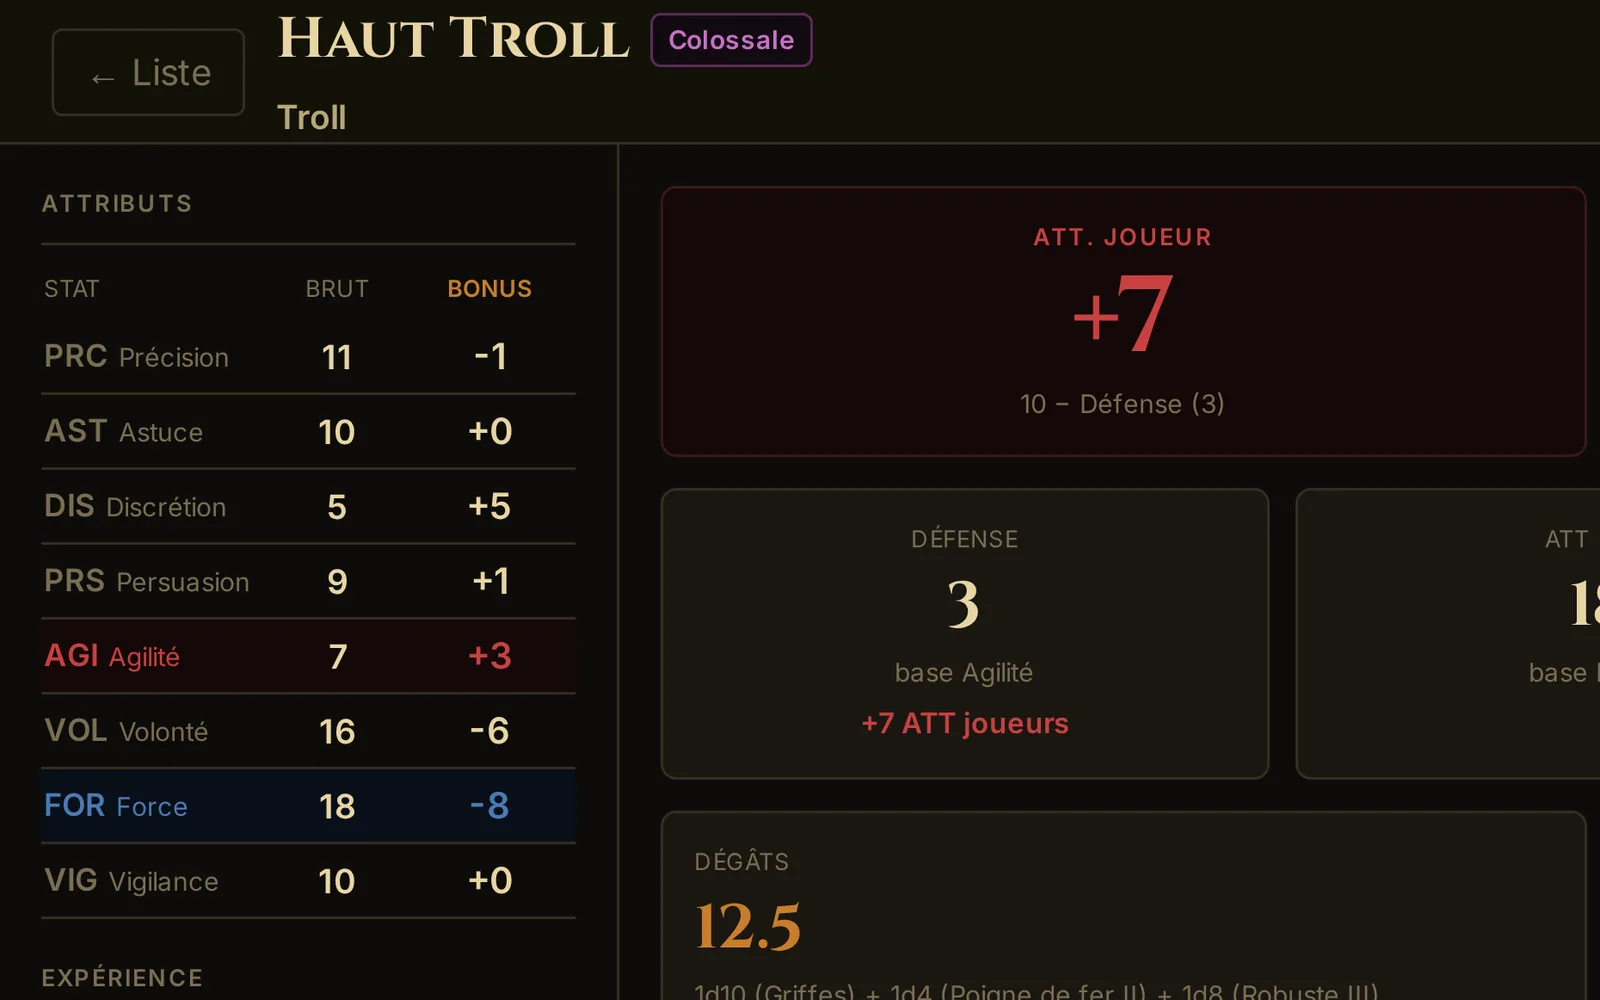
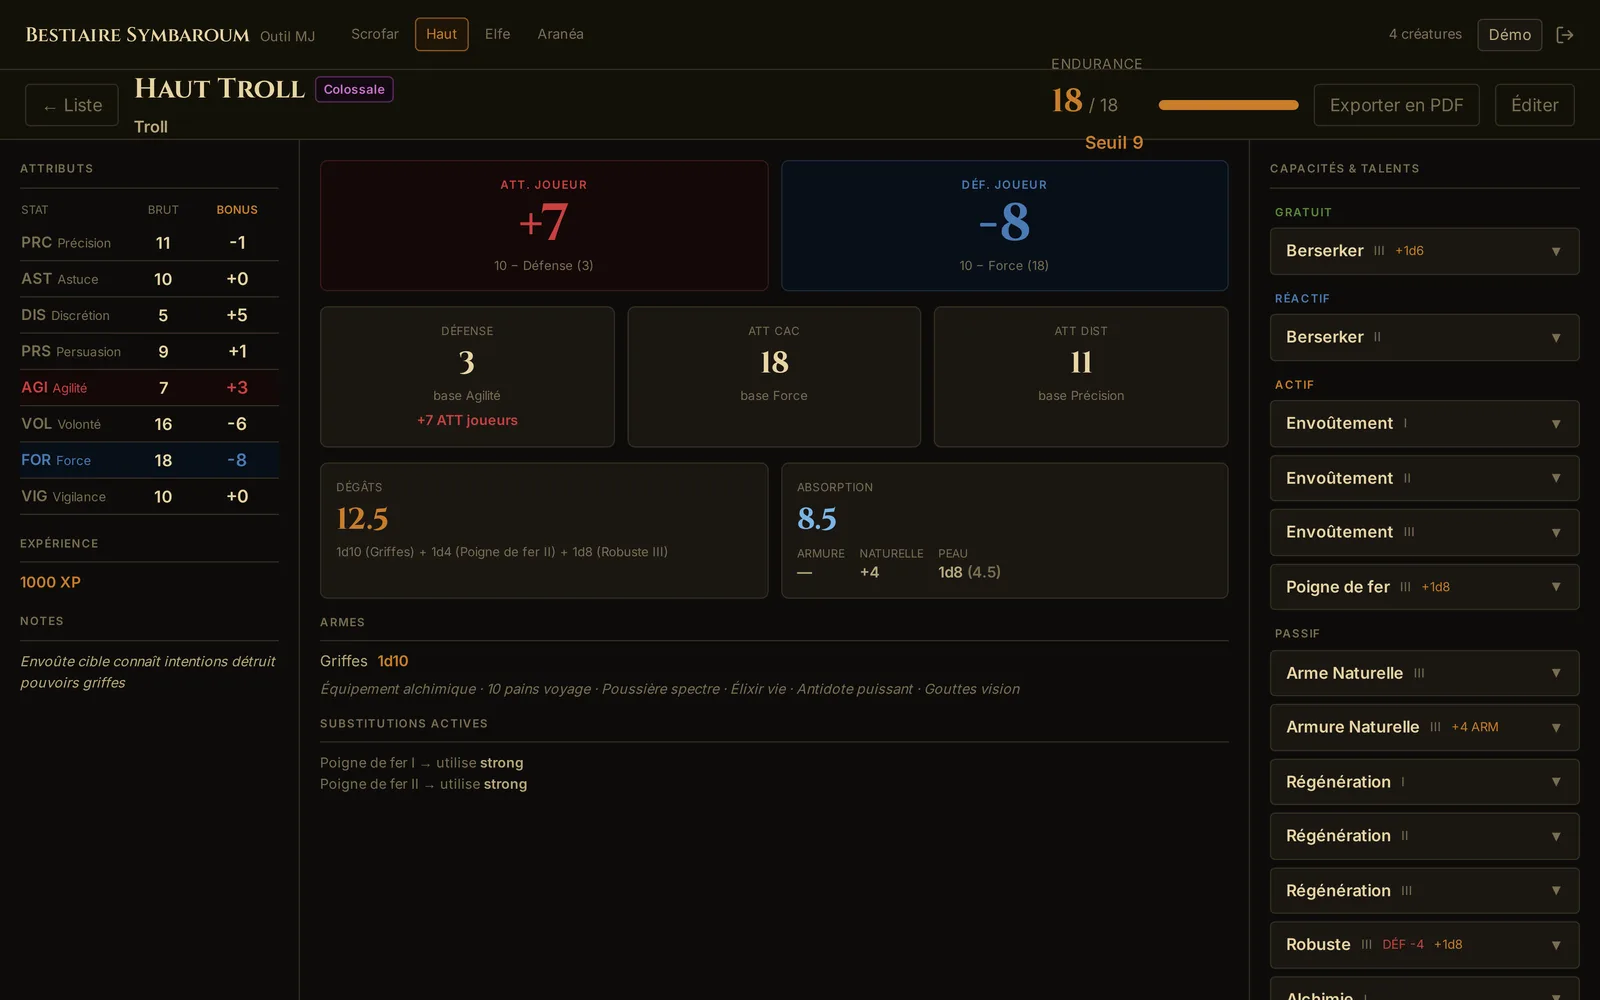
Grande vue des galeries : grande fiche cartonnée, écrans entiers Symbaroum
- La grande vue devient une grande fiche cartonnée (onglet au nom du projet,
  ombre dure) qui épouse la capture, sur la page voilée de crème ; fond
  crème plein sur téléphone. Commandes au centre en bas, « Fermer » à droite.
- Un clic hors de la fiche et des commandes ferme (la fenêtre couvre
  désormais tout l'écran).
- Symbaroum : grande vue en écran entier ; trois écrans distincts (liste,
  fiche du Haut Troll, formulaire de modification), vignettes en gros plan.

diff --git a/app/components/ProjectGallery.vue b/app/components/ProjectGallery.vue
@@ -73,35 +73,41 @@ const sizes = '(max-width: 640px) calc(100vw - 108px), (max-width: 960px) calc(5
       </p>
     </div>
 
-    <!-- Grande vue : dans la couche supérieure une fois ouverte, elle échappe
-         à la rotation et au rognage de la fiche. -->
+    <!-- Grande vue : la capture posée dans une grande fiche cartonnée, onglet
+         au nom du projet, sur la page voilée. Dans la couche supérieure une
+         fois ouverte, elle échappe à la rotation et au rognage de la fiche. -->
     <dialog class="lightbox" :aria-label="title">
       <div class="lightbox__inner">
         <div class="lightbox__track" data-strip-track>
-          <figure v-for="image in images" :key="image.full.src" class="lightbox__slide">
-            <img
-              class="lightbox__image"
-              :src="image.full.src"
-              :width="image.full.width"
-              :height="image.full.height"
-              :alt="image.alt"
-              loading="lazy"
-              decoding="async"
-            >
-            <figcaption class="lightbox__caption">{{ image.caption }}</figcaption>
-          </figure>
+          <div v-for="image in images" :key="image.full.src" class="lightbox__slide">
+            <figure class="lightbox__frame">
+              <p class="lightbox__tab" aria-hidden="true">{{ title }}</p>
+              <img
+                class="lightbox__image"
+                :src="image.full.src"
+                :width="image.full.width"
+                :height="image.full.height"
+                :alt="image.alt"
+                loading="lazy"
+                decoding="async"
+              >
+              <figcaption class="lightbox__caption">{{ image.caption }}</figcaption>
+            </figure>
+          </div>
         </div>
 
-        <div class="lightbox__bar">
-          <button type="button" class="gallery__arrow" data-strip-prev :aria-label="labels.previous" hidden>
-            <svg viewBox="0 0 16 16" width="14" height="14" aria-hidden="true"><path d="M10.5 2 4.5 8l6 6" fill="none" stroke="currentColor" stroke-width="2" /></svg>
-          </button>
-          <p class="gallery__count" data-strip-count aria-live="polite" hidden>
-            <span data-strip-current>1</span> / {{ images.length }}
-          </p>
-          <button type="button" class="gallery__arrow" data-strip-next :aria-label="labels.next" hidden>
-            <svg viewBox="0 0 16 16" width="14" height="14" aria-hidden="true"><path d="M5.5 2l6 6-6 6" fill="none" stroke="currentColor" stroke-width="2" /></svg>
-          </button>
+        <div class="lightbox__controls">
+          <div class="lightbox__nav">
+            <button type="button" class="gallery__arrow" data-strip-prev :aria-label="labels.previous" hidden>
+              <svg viewBox="0 0 16 16" width="14" height="14" aria-hidden="true"><path d="M10.5 2 4.5 8l6 6" fill="none" stroke="currentColor" stroke-width="2" /></svg>
+            </button>
+            <p class="gallery__count" data-strip-count aria-live="polite" hidden>
+              <span data-strip-current>1</span> / {{ images.length }}
+            </p>
+            <button type="button" class="gallery__arrow" data-strip-next :aria-label="labels.next" hidden>
+              <svg viewBox="0 0 16 16" width="14" height="14" aria-hidden="true"><path d="M5.5 2l6 6-6 6" fill="none" stroke="currentColor" stroke-width="2" /></svg>
+            </button>
+          </div>
           <button type="button" class="btn btn--sm btn--outline-ink lightbox__close" data-gallery-close>
             {{ labels.close }}
           </button>
@@ -214,33 +220,37 @@ const sizes = '(max-width: 640px) calc(100vw - 108px), (max-width: 960px) calc(5
 
 /* ---------- Grande vue ---------- */
 
+/* Plein écran et transparente : seule la fiche est dessinée, elle épouse
+   la capture, sans vide autour. */
 .lightbox {
-  width: min(1080px, 100vw - 32px);
+  width: 100vw;
+  height: 100dvh;
   max-width: none;
-  max-height: calc(100dvh - 32px);
+  max-height: none;
+  margin: 0;
   padding: 0;
-  border: var(--border);
-  background: var(--cream-card);
+  border: 0;
+  background: transparent;
   color: var(--ink);
   overflow: hidden;
 }
 
+/* La page reste devinable sous un voile crème (--cream à 85 %). */
 .lightbox::backdrop {
-  background: rgb(46 42 38 / .85);
+  background: rgb(243 234 211 / .85);
 }
 
 .lightbox__inner {
-  display: flex;
-  flex-direction: column;
+  display: grid;
+  grid-template-rows: minmax(0, 1fr) auto;
   gap: 14px;
-  max-height: calc(100dvh - 32px);
-  padding: 18px;
+  height: 100%;
+  padding: 20px 24px;
   box-sizing: border-box;
 }
 
 .lightbox__track {
   display: flex;
-  flex: 1;
   min-height: 0;
   overflow-x: auto;
   overscroll-behavior-x: contain;
@@ -255,61 +265,104 @@ const sizes = '(max-width: 640px) calc(100vw - 108px), (max-width: 960px) calc(5
 .lightbox__slide {
   display: flex;
   flex: 0 0 100%;
-  flex-direction: column;
   align-items: center;
-  gap: 10px;
+  justify-content: center;
   min-width: 0;
-  margin: 0;
   scroll-snap-align: start;
 }
 
-/* La place restante sous la barre, la légende et les marges : l'écran en
-   hauteur de MémoPatte tient entier, la capture en largeur aussi. */
+/* La grande fiche : même carton, même ombre que les fiches de l'accueil.
+   La marge haute laisse la place à l'onglet. */
+.lightbox__frame {
+  position: relative;
+  display: flex;
+  flex-direction: column;
+  gap: 12px;
+  margin: 30px 0 0;
+  padding: 20px 20px 18px;
+  border: var(--border);
+  background: var(--cream-card);
+  box-shadow: var(--shadow-card);
+}
+
+.lightbox__tab {
+  position: absolute;
+  top: -30px;
+  left: -1.5px;
+  display: flex;
+  align-items: center;
+  height: 30px;
+  padding: 0 16px;
+  box-sizing: border-box;
+  border: var(--border);
+  border-bottom: none;
+  background: var(--teal);
+  color: var(--cream);
+  font-family: var(--font-mono);
+  font-size: var(--fs-mono-sm);
+  font-weight: var(--fw-mono);
+  letter-spacing: var(--track-mono);
+  text-transform: uppercase;
+  white-space: nowrap;
+}
+
+/* Ce qui reste une fois ôtés les marges, l'onglet, le cadre, la légende et
+   les commandes : la capture en largeur comme l'écran en hauteur tiennent. */
 .lightbox__image {
+  display: block;
   width: auto;
   height: auto;
-  max-width: 100%;
-  max-height: calc(100dvh - 190px);
+  max-width: calc(100vw - 96px);
+  max-height: calc(100dvh - 260px);
   border: var(--border);
 }
 
+/* Largeur nulle, largeur minimale 100 % : la légende suit la capture sans
+   jamais élargir la fiche. */
 .lightbox__caption {
-  max-width: var(--measure);
+  width: 0;
+  min-width: 100%;
   font-size: var(--fs-body);
   line-height: var(--lh-body);
-  text-align: center;
   text-wrap: pretty;
 }
 
-.lightbox__bar {
+/* Flèches et compteur au centre, « Fermer » à droite, sur la même ligne. */
+.lightbox__controls {
+  display: grid;
+  grid-template-columns: 1fr auto 1fr;
+  align-items: center;
+}
+
+.lightbox__nav {
   display: flex;
+  grid-column: 2;
   align-items: center;
   gap: var(--gap-sm);
-  padding-top: 14px;
-  border-top: var(--rule);
 }
 
 .lightbox__close {
-  margin-left: auto;
+  grid-column: 3;
+  justify-self: end;
 }
 
-/* Sur téléphone, la grande vue prend tout l'écran. */
 @media (max-width: 760px) {
-  .lightbox {
-    width: 100vw;
-    height: 100dvh;
-    max-height: none;
-    border: none;
+  /* Sur petit écran, la page qui transparaît brouille la fiche : fond plein. */
+  .lightbox::backdrop {
+    background: var(--cream);
   }
 
   .lightbox__inner {
-    height: 100%;
-    max-height: none;
     padding: 16px;
   }
 
+  .lightbox__frame {
+    padding: 14px 14px 12px;
+  }
+
   .lightbox__image {
-    max-height: calc(100dvh - 170px);
+    max-width: calc(100vw - 64px);
+    max-height: calc(100dvh - 290px);
   }
 }
 </style>

diff --git a/app/content/projects.ts b/app/content/projects.ts
@@ -57,6 +57,7 @@ export const projects: Project[] = [
     title: 'Symbaroum Bestiary Manager',
     text: 'Compagnon de jeu pour meneurs de Symbaroum. Conçu pour un utilisateur réel, puis itéré à partir de ce qu\'il en a fait à table.',
     stack: 'Vue.js · TypeScript · Supabase',
+    // Vignettes : gros plans lisibles ; grande vue : l'écran entier de la démo.
     images: [
       {
         thumb: {
@@ -69,21 +70,21 @@ export const projects: Project[] = [
       },
       {
         thumb: {
-          src: '/images/projets/symbaroum-combat-800.webp',
-          srcset: '/images/projets/symbaroum-combat-400.webp 400w, /images/projets/symbaroum-combat-800.webp 800w',
-        },
-        full: { src: '/images/projets/symbaroum-combat-grand.webp', width: 1600, height: 1000 },
-        alt: 'Panneau de combat du Haut Troll : attaque et défense des joueurs, défense, dégâts et absorption',
-        caption: 'Le combat : les modificateurs des joueurs sont calculés à partir des attributs du monstre.',
-      },
-      {
-        thumb: {
           src: '/images/projets/symbaroum-fiche-800.webp',
           srcset: '/images/projets/symbaroum-fiche-400.webp 400w, /images/projets/symbaroum-fiche-800.webp 800w',
         },
         full: { src: '/images/projets/symbaroum-fiche-grand.webp', width: 1600, height: 1000 },
-        alt: 'Fiche du Haut Troll : rang, attributs bruts et bonus, attaque des joueurs',
-        caption: 'La fiche d\'un monstre : ses attributs et les bonus qui en découlent.',
+        alt: 'Fiche du Haut Troll : attributs et bonus, modificateurs de combat des joueurs, capacités et talents',
+        caption: 'La fiche d\'un monstre : ses attributs, et les modificateurs de combat des joueurs qui en découlent.',
+      },
+      {
+        thumb: {
+          src: '/images/projets/symbaroum-edition-800.webp',
+          srcset: '/images/projets/symbaroum-edition-400.webp 400w, /images/projets/symbaroum-edition-800.webp 800w',
+        },
+        full: { src: '/images/projets/symbaroum-edition-grand.webp', width: 1600, height: 1000 },
+        alt: 'Formulaire de modification de l\'Elfe d\'Automne : identité, résistance et endurance, attributs, traits et talents',
+        caption: 'La saisie d\'un monstre : identité, résistance, attributs, traits et talents.',
       },
     ],
     action: {

diff --git a/app/assets/js/project-gallery.js b/app/assets/js/project-gallery.js
@@ -52,9 +52,10 @@
     })
 
     dialog.querySelector('[data-gallery-close]').addEventListener('click', () => dialog.close())
-    // Un clic sur le fond sombre ferme ; Échap est géré par le navigateur.
+    // La grande vue couvre l'écran : un clic hors de la fiche et des
+    // commandes ferme. Échap est géré par le navigateur.
     dialog.addEventListener('click', (event) => {
-      if (event.target === dialog) dialog.close()
+      if (!event.target.closest('figure, button, [data-strip-count]')) dialog.close()
     })
     dialog.addEventListener('keydown', (event) => {
       if (event.key === 'ArrowLeft') view.go(view.index() - 1)

diff --git a/README.md b/README.md
@@ -84,8 +84,10 @@ pétrole à gauche, `construction` en moutarde au tiers, `libre` en pointillé
 ## Galeries des fiches
 
 Chaque fiche montre ses `images` dans une bande qu'on fait glisser ; un
-clic ouvre la grande vue (un `<dialog>`), avec flèches, compteur, légende
-et touches ← → / Échap. La première image sert de vignette.
+clic ouvre la grande vue (un `<dialog>`) : la capture posée dans une grande
+fiche cartonnée, avec l'onglet au nom du projet, sur la page voilée de
+crème. Flèches, compteur, légende, touches ← → et Échap, clic à côté pour
+fermer. La première image sert de vignette.
 
 Trois fichiers par image, dans `public/images/projets/` :
 
@@ -94,8 +96,9 @@ Trois fichiers par image, dans `public/images/projets/` :
 | `…-800.webp` et `…-400.webp` | 16:10 exactement (800 × 500, 400 × 250) | vignette de la fiche |
 | `…-grand.webp` | libre, 1600 px sur le grand côté | grande vue, chargée à l'ouverture seulement |
 
-Pour un écran de téléphone, la vignette est un cadrage 16:10 sur le haut
-utile de l'écran, et la grande vue montre l'écran entier :
+La vignette est un gros plan lisible à la taille de la fiche ; la grande
+vue montre l'écran entier. Pour un écran de téléphone, le gros plan est un
+cadrage 16:10 sur le haut utile de l'écran :
 
 ```bash
 # capture 390 × 844 prise en ×3 (1170 × 2532), cadrage à partir de y = 44 px
